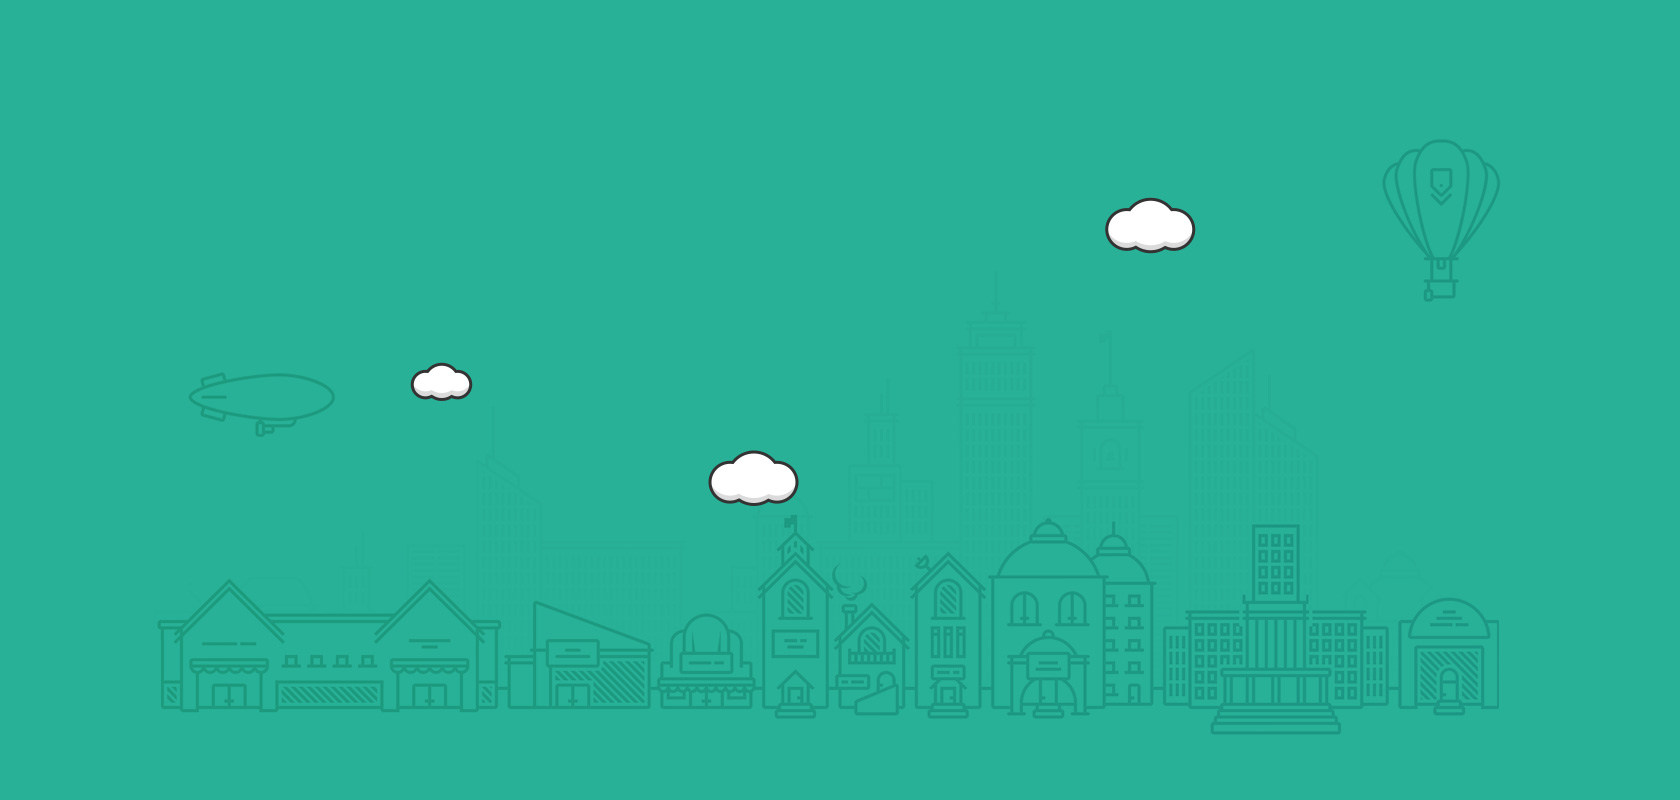
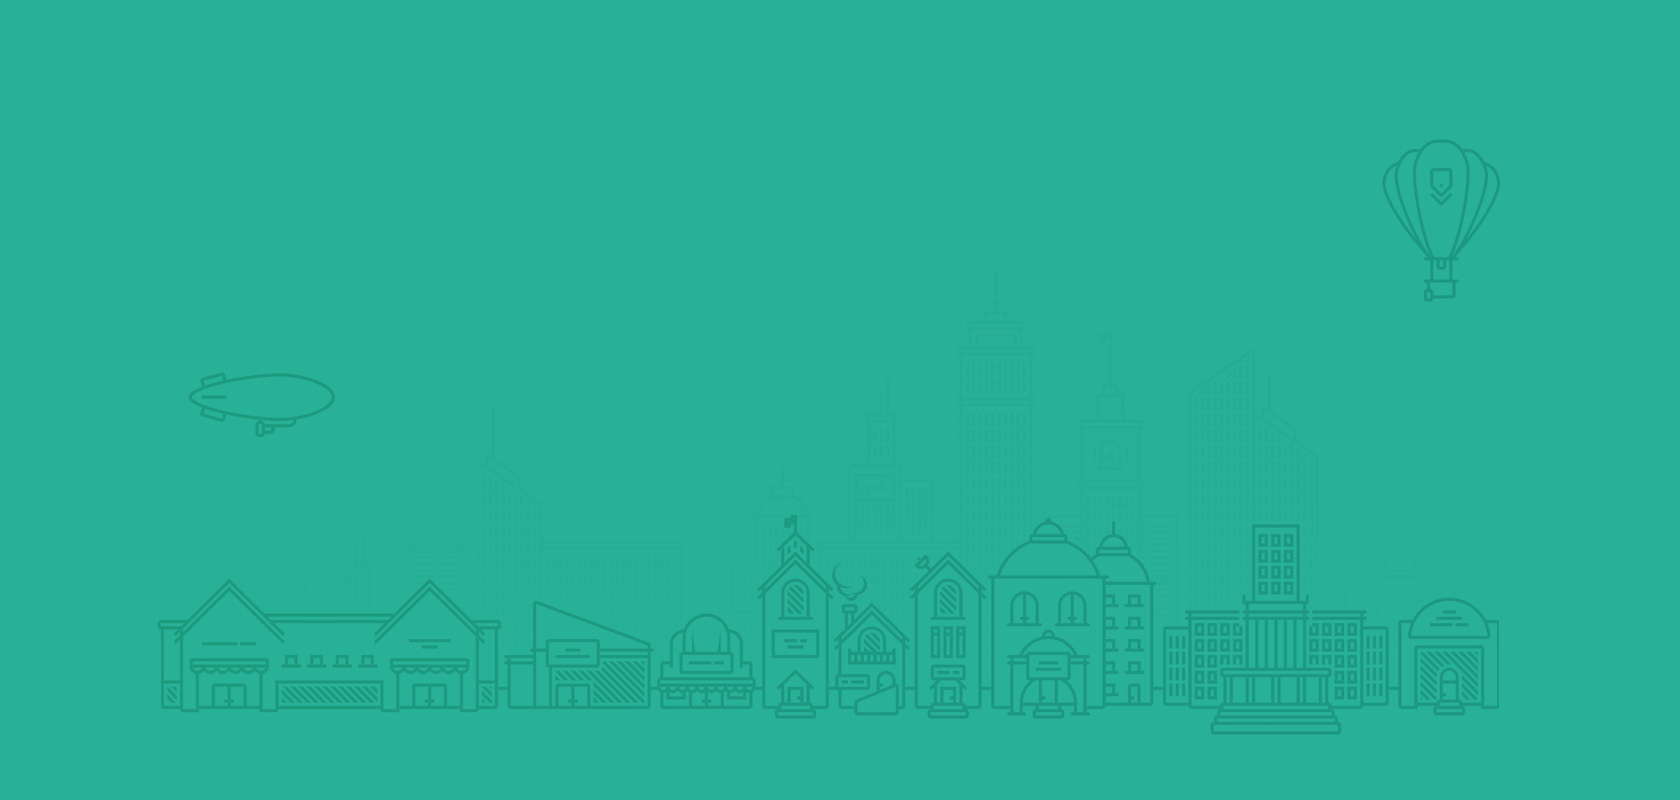
update

Changed region(s): [[0.4024, 0.5625, 0.4952, 0.6562], [0.65, 0.25, 0.7119, 0.3125], [0.2476, 0.4375, 0.2786, 0.5]]

diff --git a/src/projects/about/pages/home/styles/index.scss b/src/projects/about/pages/home/styles/index.scss
@@ -1,11 +1,20 @@
-@import "../../styles/utils/index";
+@import "../../../styles/utils/index";
+@import "./libs/animate";
 
-@mixin position($left, $top) {
-  position: absolute;
+@mixin position($left, $top, $position-value: absolute) {
+  position: $position-value;
   left: 50%;
   top: 50%;
   margin-left: $left;
   margin-top: $top;
+}
+
+.phone {
+  @include position(-378px, -207px, fixed);
+  @include size(312px, 479px);
+
+  z-index: 999;
+  background-image: url("../images/page-1/phone.png");
 }
 
 @include b(page-1, page-2, page-3, page-4) {
@@ -21,53 +30,75 @@
 @include b(page-1) {
   background: {
     color: #28b197;
-    image: url("./images/page-1/bg.jpg");
+    image: url("../images/page-1/bg.jpg");
   }
 
   @include e(phone) {
     @include position(-378px, -207px);
     @include size(312px, 479px);
 
-    background-image: url("./images/page-1/phone.png");
+    background-image: url("../images/page-1/phone.png");
   }
 
   @include e(words) {
     @include position(21px, -136px);
     @include size(305px, 153px);
 
-    background-image: url("./images/page-1/words.png");
+    background-image: url("../images/page-1/words.png");
   }
 
   @include e(downloads) {
     @include position(21px, 55px);
+  }
+
+  @include e(cloud-1) {
+    @include size(63px, 39px);
+    @include position(-429px, -38px);
+
+    background-image: url("../images/page-1/clouds/1.png");
+  }
+
+  @include e(cloud-2) {
+    @include size(91px, 57px);
+    @include position(-131px, 50px);
+
+    background-image: url("../images/page-1/clouds/2.png");
+  }
+
+  @include e(cloud-3) {
+    @include size(91px, 56px);
+    @include position(265px, -203px);
+
+    background-image: url("../images/page-1/clouds/3.png");
   }
 }
 
 @include b(page-2) {
   background: {
     color: #815fd7;
-    image: url("./images/page-2/bg.jpg");
+    image: url("../images/page-2/bg.jpg");
   }
 
   @include e(phone) {
     @include position(-336px, -190px);
     @include size(232px, 464px);
 
-    background-image: url("./images/page-2/phone.png");
+    background-image: url("../images/page-2/phone.png");
   }
 
   @include e(words) {
     @include position(44px, -184px);
     @include size(236px, 58px);
 
-    background-image: url("./images/page-2/words.png");
+    background-image: url("../images/page-2/words.png");
   }
 
   @include e(come-on) {
     @include position(-74px, -29px);
     @include size(489px, 316px);
 
-    background-image: url("./images/page-2/come-on.png");
+    display: none;
+    background-image: url("../images/page-2/come-on.png");
   }
 
   @include e(downloads) {
@@ -78,28 +109,29 @@
 @include b(page-3) {
   background: {
     color: #3394d9;
-    image: url("./images/page-3/bg.jpg");
+    image: url("../images/page-3/bg.jpg");
   }
 
   @include e(phone) {
     @include position(-336px, -190px);
     @include size(232px, 464px);
 
-    background-image: url("./images/page-3/phone.png");
+    background-image: url("../images/page-3/phone.png");
   }
 
   @include e(words) {
     @include position(45px, -180px);
     @include size(235px, 54px);
 
-    background-image: url("./images/page-3/words.png");
+    background-image: url("../images/page-3/words.png");
   }
 
   @include e(come-on) {
-    @include position(-30px, 41px);
+    @include position(-30px, 21px);
     @include size(429px, 267px);
 
-    background-image: url("./images/page-3/come-on.png");
+    display: none;
+    background-image: url("../images/page-3/come-on.png");
   }
 
   @include e(downloads) {
@@ -110,28 +142,29 @@
 @include b(page-4) {
   background: {
     color: #ffae00;
-    image: url("./images/page-4/bg.jpg");
+    image: url("../images/page-4/bg.jpg");
   }
 
   @include e(phone) {
     @include position(-336px, -190px);
     @include size(232px, 464px);
 
-    background-image: url("./images/page-4/phone.png");
+    background-image: url("../images/page-4/phone.png");
   }
 
   @include e(words) {
     @include position(44px, -179px);
     @include size(233px, 54px);
 
-    background-image: url("./images/page-4/words.png");
+    background-image: url("../images/page-4/words.png");
   }
 
   @include e(come-on) {
     @include position(-95px, 36px);
     @include size(500px, 367px);
 
-    background-image: url("./images/page-4/come-on.png");
+    display: none;
+    background-image: url("../images/page-4/come-on.png");
   }
 
   @include e(downloads) {
@@ -146,7 +179,7 @@
   cursor: pointer;
   margin-left: -16px;
   z-index: 99;
-  background-image: url("./images/next.png");
+  background-image: url("../images/next.png");
 }
 
 @include b(nav) {
@@ -159,7 +192,7 @@
     @include size(18px, 17px);
 
     background: {
-      image: url("./images/nav.png");
+      image: url("../images/nav.png");
       position: center center;
       repeat: no-repeat;
     }
@@ -167,7 +200,7 @@
     cursor: pointer;
 
     &.active {
-      background-image: url("./images/nav-active.png");
+      background-image: url("../images/nav-active.png");
       cursor: inherit;
     }
   }

diff --git a/src/projects/about/pages/home/scripts/index.js b/src/projects/about/pages/home/scripts/index.js
@@ -1,0 +1,83 @@
+import '../styles/index.scss'
+
+$(function () {
+  var $nav = $('#nav')
+  var $next = $('#next')
+  var $pages = $('#pages')
+  var $clouds = $('.cloud')
+  var $comeOns = $('.come-on')
+  var animationEnd = 'webkitAnimationEnd mozAnimationEnd MSAnimationEnd oanimationend animationend'
+  var scrollIndex = 1
+
+  // 滚屏效果
+  $pages.onepage_scroll({
+    sectionContainer: '.page',
+    easing: 'ease',
+    animationTime: 400,
+    pagination: false,
+    updateURL: false,
+    beforeMove: function (index) {
+      ['zoomInDown', 'zoomInLeft', 'zoomInRight'].forEach((v, i) => {
+        if (index - 2 === i) {
+          $comeOns.eq(index - 2).hide().removeClass(`animated ${v}`)
+        }
+      })
+
+      $nav.find('li')
+        .eq(index - 1).addClass('active')
+        .siblings().removeClass('active')
+    },
+    afterMove: function (index) {
+      ['zoomInDown', 'zoomInLeft', 'zoomInRight'].forEach((v, i) => {
+        if (index - 2 === i) {
+          $comeOns.eq(index - 2).show().addClass(`animated ${v}`)
+        }
+      })
+
+      scrollIndex = index
+    },
+    loop: true,
+    keyboard: true,
+    responsiveFallback: false,
+    direction: 'vertical'
+  })
+
+  // 点击索引按钮
+  $nav.on('click', 'li', function () {
+    $pages.moveTo($(this).data('index'))
+  })
+
+  // 点击下一页
+  $next.on('click', function () {
+    $pages.moveDown()
+  }).addClass('animated slideInUp')
+
+  // 下一页按钮监听 animationEnd 事件
+  $next.on(animationEnd, () => {
+    if ($next.hasClass('slideOutDown')) {
+      $next.removeClass('slideOutDown').addClass('slideInUp')
+    } else {
+      $next.removeClass('slideInUp').addClass('slideOutDown')
+    }
+  })
+
+  // 首屏云朵左右移动
+  $clouds.each((index) => {
+    setTimeout(() => {
+      $clouds.eq(index).addClass('animated slideInLeft')
+    }, index * 70)
+  })
+
+  // 首屏云朵监听 animationEnd 事件
+  $clouds.each(function () {
+    var $this = $(this)
+
+    $this.on(animationEnd, () => {
+      if ($this.hasClass('slideInLeft')) {
+        $this.removeClass('slideInLeft').addClass('slideOutLeft')
+      } else {
+        $this.removeClass('slideOutLeft').addClass('slideInLeft')
+      }
+    })
+  })
+})

diff --git a/src/projects/about/pages/home/template.html b/src/projects/about/pages/home/template.html
@@ -5,9 +5,12 @@ ${require('../commons/requires/head/template.html')}
 <script src="/static/scripts/home.js"></script>
 <body>
 ${require('../commons/requires/header/template.html')}
+<div class="phone"></div>
 <div id="pages">
   <div class="page page-1">
-    <div class="page-1__phone"></div>
+    <div class="cloud page-1__cloud-1"></div>
+    <div class="cloud page-1__cloud-2"></div>
+    <div class="cloud page-1__cloud-3"></div>
     <div class="page-1__words"></div>
     <div class="page-1__downloads downloads">
       <div class="downloads__qrcode"></div>
@@ -16,9 +19,8 @@ ${require('../commons/requires/header/template.html')}
     </div>
   </div>
   <div class="page page-2">
-    <div class="page-2__phone"></div>
     <div class="page-2__words"></div>
-    <div class="page-2__come-on"></div>
+    <div class="come-on page-2__come-on"></div>
     <div class="page-2__downloads downloads">
       <div class="downloads__qrcode"></div>
       <a class="downloads__ios" href="/"></a>
@@ -26,9 +28,8 @@ ${require('../commons/requires/header/template.html')}
     </div>
   </div>
   <div class="page page-3">
-    <div class="page-3__phone"></div>
     <div class="page-3__words"></div>
-    <div class="page-3__come-on"></div>
+    <div class="come-on page-3__come-on"></div>
     <div class="page-3__downloads downloads">
       <div class="downloads__qrcode"></div>
       <a class="downloads__ios" href="/"></a>
@@ -36,9 +37,8 @@ ${require('../commons/requires/header/template.html')}
     </div>
   </div>
   <div class="page page-4">
-    <div class="page-4__phone"></div>
     <div class="page-4__words"></div>
-    <div class="page-4__come-on"></div>
+    <div class="come-on page-4__come-on"></div>
     <div class="page-4__downloads downloads">
       <div class="downloads__qrcode"></div>
       <a class="downloads__ios" href="/"></a>

diff --git a/build/utils/helpers.js b/build/utils/helpers.js
@@ -1,12 +1,18 @@
 const consts = require('./consts')
 const HtmlWebpackPlugin = require('html-webpack-plugin')
 const projectPath = `${consts.SRC}/projects/${consts.PROJECT}/pages`
+const fs = require('fs')
 
 const getEntry = () => {
   const entry = {}
 
   consts.PAGES.forEach(value => {
-    entry[value] = `${projectPath}/${value}/scripts.js`
+    const paths = [
+      `${projectPath}/${value}/scripts.js`,
+      `${projectPath}/${value}/scripts/index.js`
+    ]
+
+    entry[value] = fs.existsSync(paths[0]) ? paths[0] : paths[1]
   })
 
   return entry

diff --git a/src/projects/about/pages/home/styles/libs/animate.scss b/src/projects/about/pages/home/styles/libs/animate.scss
@@ -1,0 +1,25 @@
+@import "~animate.css";
+
+@keyframes slideInUp {
+  from {
+    transform: translate3d(0, 40%, 0);
+  }
+}
+
+@keyframes slideOutDown {
+  to {
+    transform: translate3d(0, 40%, 0);
+  }
+}
+
+@keyframes slideInLeft {
+  from {
+    transform: translate3d(-40%, 0, 0);
+  }
+}
+
+@keyframes slideOutLeft {
+  to {
+    transform: translate3d(-40%, 0, 0);
+  }
+}
